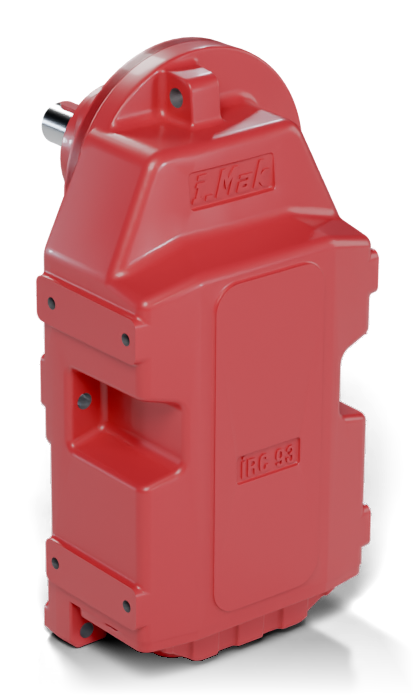
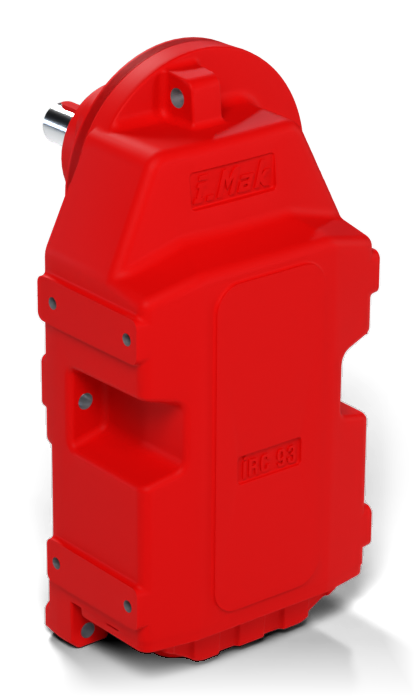
Brochure: point geared-motor sections at the motor-version renders (work in progress)
Claude-Session: https://claude.ai/code/session_019uUhvhuZLNAQkWurKy5vyQ

diff --git a/imak-mixing-brochure/brochure.html b/imak-mixing-brochure/brochure.html
@@ -45,7 +45,7 @@
 
   <div class="abs" style="left:15mm; top:36mm; width:180mm; display:grid; grid-template-columns:repeat(3,1fr); gap:6mm;">
     <div class="prodcard"><div class="im"><img src="assets/3d-mk.png" alt=""></div><h3>Industrial gear units</h3><div class="small">MA/MK monobloc, A series, IPR planetary, 4DSM agitator units – up to 332 800 Nm</div></div>
-    <div class="prodcard"><div class="im"><img src="assets/3d-irk.png" alt=""></div><h3>Geared motors</h3><div class="small">Helical, helical-bevel, parallel-shaft and worm geared motors from 0.12 kW</div></div>
+    <div class="prodcard"><div class="im"><img src="assets/3d-irkm.png" alt=""></div><h3>Geared motors</h3><div class="small">Helical, helical-bevel, parallel-shaft and worm geared motors from 0.12 kW</div></div>
     <div class="prodcard"><div class="im"><img src="assets/motor.png" style="max-height:24mm" alt=""></div><h3>Electric motors</h3><div class="small">Three-phase asynchronous motors, frame 63–355, IE2 · IE3 · IE4</div></div>
   </div>
 
@@ -550,20 +550,20 @@
   </div>
 
   <div class="abs" style="left:15mm; top:52mm; width:180mm; display:grid; grid-template-columns:repeat(2,1fr); gap:5mm 8mm;">
-    <div style="display:grid; grid-template-columns:38mm 1fr; gap:4mm; align-items:center;">
-      <img src="assets/3d-ir.png" style="width:38mm" alt="">
+    <div style="display:grid; grid-template-columns:41mm 1fr; gap:3mm; align-items:center;">
+      <img src="assets/3d-iram.png" style="width:40mm" alt="">
       <div><h3 style="color:var(--red-dk); border-top:1.2pt solid var(--red); padding-top:1mm;">IR helical geared motors</h3><div class="kv"><dt>Torque</dt><dd>90 – 18 000 Nm</dd><dt>Speed</dt><dd>2.4 – 852 min⁻¹</dd><dt>Power</dt><dd>0.12 – 160 kW</dd></div><p class="small" style="margin-top:1mm">In-line, foot or flange – the classic vertical agitator drive</p></div>
     </div>
-    <div style="display:grid; grid-template-columns:38mm 1fr; gap:4mm; align-items:center;">
-      <img src="assets/3d-irk.png" style="width:38mm" alt="">
+    <div style="display:grid; grid-template-columns:41mm 1fr; gap:3mm; align-items:center;">
+      <img src="assets/3d-irkm.png" style="width:40mm" alt="">
       <div><h3 style="color:var(--red-dk); border-top:1.2pt solid var(--red); padding-top:1mm;">IRK helical-bevel geared motors</h3><div class="kv"><dt>Torque</dt><dd>180 – 18 000 Nm</dd><dt>Speed</dt><dd>0.17 – 214 min⁻¹</dd><dt>Power</dt><dd>0.12 – 200 kW</dd></div><p class="small" style="margin-top:1mm">Right-angle drive with high efficiency, hollow or solid shaft</p></div>
     </div>
-    <div style="display:grid; grid-template-columns:38mm 1fr; gap:4mm; align-items:center;">
-      <img src="assets/3d-yp.png" style="width:27mm; margin-left:5mm" alt="">
+    <div style="display:grid; grid-template-columns:41mm 1fr; gap:3mm; align-items:center;">
+      <img src="assets/3d-ypm.png" style="width:38mm" alt="">
       <div><h3 style="color:var(--red-dk); border-top:1.2pt solid var(--red); padding-top:1mm;">YP parallel-shaft geared motors</h3><div class="kv"><dt>Torque</dt><dd>130 – 18 000 Nm</dd><dt>Speed</dt><dd>2.4 – 391 min⁻¹</dd><dt>Power</dt><dd>0.12 – 200 kW</dd></div><p class="small" style="margin-top:1mm">Slim design for flocculators and slow mixers</p></div>
     </div>
-    <div style="display:grid; grid-template-columns:38mm 1fr; gap:4mm; align-items:center;">
-      <img src="assets/3d-irsd.png" style="width:32mm; margin-left:3mm" alt="">
+    <div style="display:grid; grid-template-columns:41mm 1fr; gap:3mm; align-items:center;">
+      <img src="assets/3d-irsdm.png" style="width:38mm" alt="">
       <div><h3 style="color:var(--red-dk); border-top:1.2pt solid var(--red); padding-top:1mm;">IRSD helical-worm geared motors</h3><div class="kv"><dt>Torque</dt><dd>125 – 4 820 Nm</dd><dt>Ratios</dt><dd>20 – 429</dd><dt>Power</dt><dd>0.12 – 11 kW</dd></div><p class="small" style="margin-top:1mm">High ratios in one compact unit for slow scrapers</p></div>
     </div>
   </div>

diff --git a/imak-mixing-brochure/tools/network_page.py b/imak-mixing-brochure/tools/network_page.py
@@ -14,8 +14,8 @@ TOP = 104.0                       # block top on the page (mm)
 ROWS = [  # (baseline y in block mm, image height mm, [(asset, label html)])
     (40, 30, [("3d-ma.png", "<b>MA</b> monobloc"), ("3d-mk.png", "<b>MK</b> monobloc"),
               ("4dsm-hero.png", "<b>4DSM</b> agitator"), ("ipr.png", "<b>IPR</b> planetary")]),
-    (80, 26, [("3d-irk.png", "<b>IRK</b>"), ("3d-ir.png", "<b>IR</b>"), ("3d-yp.png", "<b>YP</b>"),
-              ("3d-irsd.png", "<b>IRSD</b>"), ("3d-irc.png", "<b>IRC</b> hoist")]),
+    (80, 22, [("3d-irkm.png", "<b>IRK</b>"), ("3d-iram.png", "<b>IR</b>"), ("3d-ypm.png", "<b>YP</b>"),
+              ("3d-irsdm.png", "<b>IRSD</b>"), ("3d-irc.png", "<b>IRC</b> hoist")]),
     (113, 21, [("motor.png", "<b>Motors</b> IE2–IE4"), ("3d-s.png", "<b>S</b> aluminium"),
                ("3d-irnx.png", "<b>IRNX</b>"), ("3d-iro.png", "<b>IRO</b>")]),
 ]
